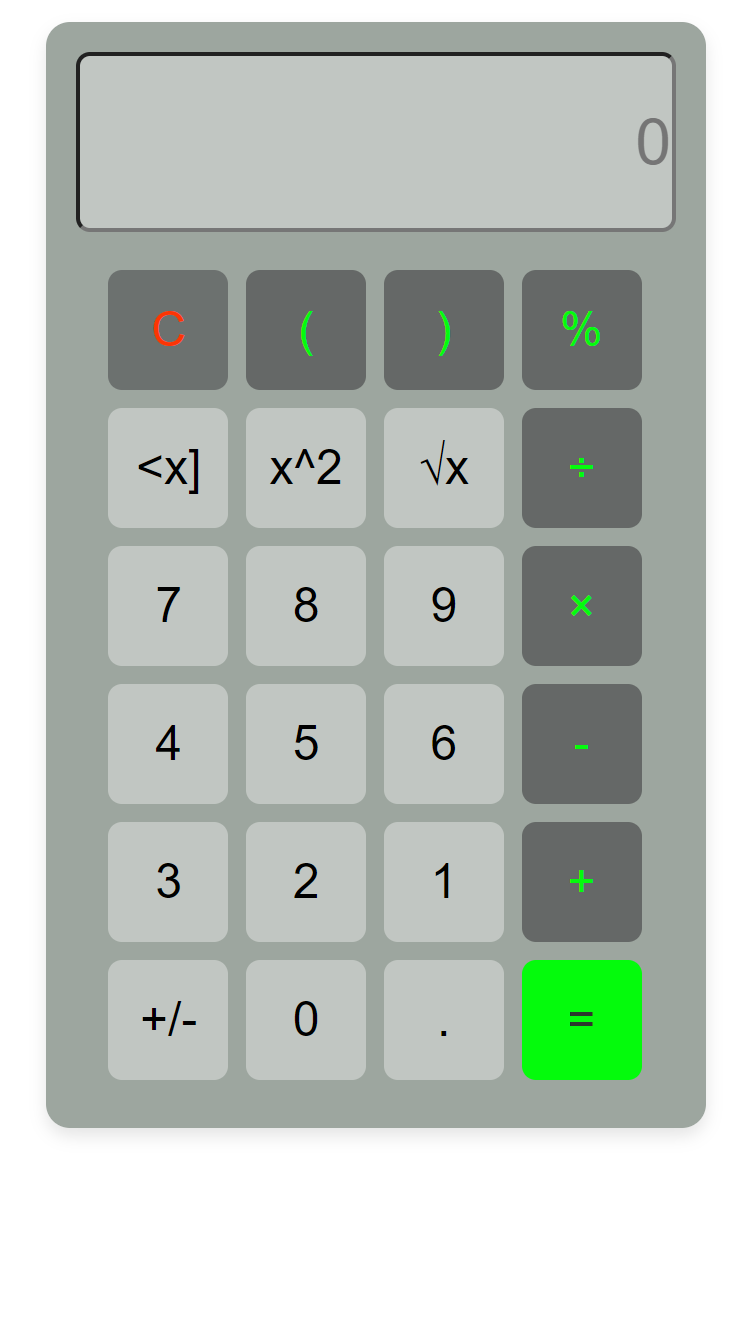
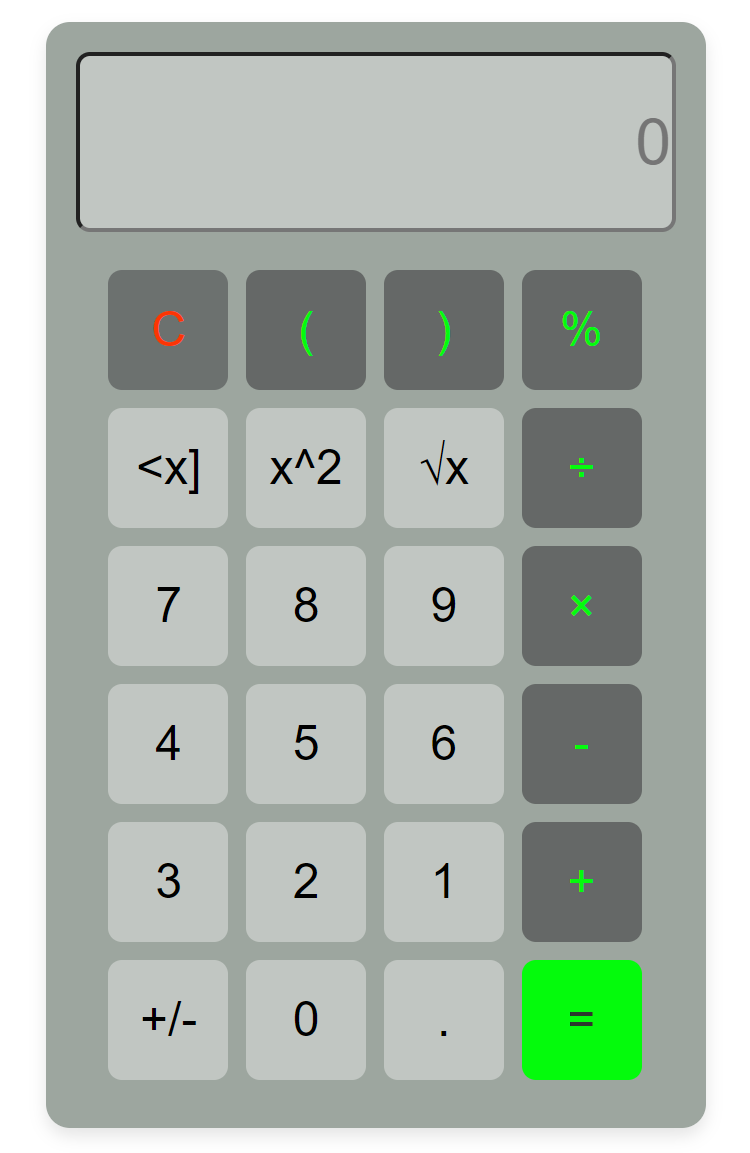
Update html and add css style sheet

diff --git a/index.html b/index.html
@@ -11,9 +11,9 @@
 <body>
     <header>
         <div class="logo">
-            <a href="#" class="home">Sbosh</a>
+            <a href="#" id="home">Sbosh</a>
         </div>
-        <div class="navigation">
+        <div id="navigation">
             <nav aria-label="Portfolio-navigation">
                 <ul class="nav_list">
                     <li><a href="#about">About</a></li>
@@ -25,54 +25,65 @@
         </div>
     </header>
     <main>
-        <section id="#">
-            <div class="welcome_message">
-                <p class="job_title"><h1>Aspiring Fullstack Developer</h1></p>
-                <p class="message">I design intuitive but yet aesthetic desktop and web applications</p>
+        <section id="#" class="welcome">
+            <div id="welcome_message">
+               <h1>Aspiring Fullstack Developer</h1>
+                <p id="message">I design intuitive but yet aesthetic desktop and web applications</p>
             </div>
-            <br>
-            <div id="profile_photo">
-                <img src="Resources\profile.jpg" alt="Profile photo"/>
+            <div class="profile"> 
+                <div id="profile_photo">
+                    <img src="Resources\profile.jpg" alt="Profile photo"/>
+                </div>
             </div>
+        </section>
+        <section id="about" >
             <br>
-            <div class="profileinfo">
-                <p id="profile_name">Sbongile(Sbosh) Mdaki</p>
-                <p><span id="pronouns">She/Her&female;</span>
-                <span id="location">&#128205;RSA</span></p>
+            <p id="profile_name">Sbongile Mdaki (&female;)</p>
+                <p id="location">&#128205;South Africa</p>
+                <br>
+                <button id="CV">Download CV</button>
                 <p><span id="github"><a href="https://github.com/SbongileM">
                     <img src="Resources\github.png" alt="GitHub link"></a></span>
                     <span id="linkedin"><a href="https://www.linkedin.com/in/sbongile-zp-mdaki-9977a1250">
                     <img src="Resources\linkedin.png" alt="Linkedin link"></a></span></p>
-            </div>
-        </section>
-        <br>
-        <section id="about" >
-            <h2>Hello👋. Welcome to my digital haven! I am thrilled to have you here.</h2>
+            <br>
+            <div id="about_message">
+            <h2>Welcome to my digital haven!</h2>
+            <br>
             <p>   
-                I'm on an exhilarating journey as an aspiring full-stack developer, where I 
-                transform the language of 1s and 0s into captivating and user-friendly applications. 
-                For me, it's not just about coding; it's about crafting digital experiences that seamlessly 
+                I'm not just about coding; I transform 1s and 0s into captivating digital experiences that seamlessly 
                 blend aesthetics with functionality. With a passion for both design and engineering, 
-                I strive to create software that not only looks stunning but also exceeds user expectations. 
+                I strive to create software that not only looks the part, but also exceeds user expectations. 
                 My diverse exposure to various technologies, coupled with my problem-solving prowess and 
-                critical thinking, empowers me to build robust and scalable solutions.
-                
-                Beyond the glow of the computer screen, you'll find me pursuing diverse interests that 
-                enrich my perspective. Whether I'm hitting the gym, diving into a good book, or exploring 
-                the depths of human nature through podcasts, I'm always fueled by curiosity and a thirst 
-                for knowledge. And of course, weekends wouldn't be complete without a thrilling game of rugby!
-                
-                So, come along on this journey with me. 
-                Let's explore the endless possibilities of technology and creativity together. 
+                critical thinking, empowers me to build robust and scalable solutions.</p>
+            <br>    
+            <p>Beyond the glow of the computer screen, you'll find me either hitting the gym, diving into a good book, or exploring 
+                the depths of human nature through podcasts. I'm always fueled by curiosity and a thirst 
+                for knowledge, and of course, weekends wouldn't be complete without a thrilling game of rugby!</p>
+            <br>    
+            <p>So come along on this journey with me. Let's explore the endless possibilities of technology 
+                and creativity together. 
             </p>
+        </div>
         </section>
-        <br>
         <section id="experience">
-            <p>I am a self-taught developer with under 1 year of experience and sprinkle
+            <br>
+            <p id="brief">I am a self-taught developer with under one year of experience and a sprinkle
                 of an academic background. My current stack is as follows:
             </p>
             <div class="containers">
-                <div class="container">
+            <div class="container">
+                <h2 class="experience_title">Frameworks</h2>
+                <h3>SFML</h3>
+                <p class="proficiency_level">Experienced</p>
+                <h3>PyQt</h3>
+                <p class="proficiency_level">Intermediate</p>
+                <h3>Django</h3>
+                <p class="proficiency_level">Beginner</p>
+                <h3>Tkinter</h3>
+                <p class="proficiency_level">Beginner</p>
+            </div>
+            <div class="container">
                 <h2 class="experience_title">Languages</h2>
                 <h3>HTML</h3>
                 <p class="proficiency_level">Intermediate</p>
@@ -92,17 +103,6 @@
                 <p class="proficiency_level">Intermediate</p>
             </div>
             <div class="container">
-                <h2 class="experience_title">Frameworks</h2>
-                <h3>SFML</h3>
-                <p class="proficiency_level">Experienced</p>
-                <h3>PyQt</h3>
-                <p class="proficiency_level">Intermediate</p>
-                <h3>Django</h3>
-                <p class="proficiency_level">Beginner</p>
-                <h3>Tkinter</h3>
-                <p class="proficiency_level">Beginner</p>
-            </div>
-            <div class="container">
                 <h2 class="experience_title">Tools</h2>
                 <h3>SQL lite DB browser</h3>
                 <p class="proficiency_level">Beginner</p>
@@ -117,26 +117,26 @@
         <section id="projects">
             <div class="desktop_apps">
                 <div class="project_container">
+                    <br>
                     <h3 class="project_title">Centipede</h3>
                     <p class="stack">C++|SFML|Codeblocks</p>
                     <figure class="demo">
-                        <img src="Resources\centipede.png" alt="Centipede">
-                        <figcaption>Centipede is a 2D clone of the 1981 Centipede arcade game 
-                               from Atari which was developed and designed by Ed Logg and Dona 
-                               Bailey.</figcaption>
+                        <img src="Resources\centipede2.png" alt="Centipede">
+                        <figcaption> A 2D clone of the 1981 Centipede arcade game from Atari 
+                            which was developed and designed by Ed Logg and Dona Bailey.</figcaption>
+                               <a href="https://github.com/SbongileM/Software_Dev2_Centipede_Project.git"><button type="submit">GitHub Repo</button> </a>
                     </figure>
                     <br>
-                    <a href="https://github.com/SbongileM/Software_Dev2_Centipede_Project.git"><button type="submit">GitHub Repo</button> </a>
                 </div>
                 <br>
                 <div class="project_container">
-                    <h3 class="project_title">Rock-Paper_Scissors</h3>
+                    <h3 class="project_title">Rock-Paper-Scissors</h3>
                     <p class="stack">Python|PyQt|VScode</p>
                     <figure class="demo">
                         <img src="Resources\Rock-Paper-Scissors.png" alt="Rock-Paper-Scissors">
-                        <figcaption>This is a 2D emulation of the classic two player game  </figcaption>
+                        <figcaption>A colourful 2D emulation of an in-person two player game for the classic rock-paper-scissors</figcaption>
+                        <a href="https://github.com/SbongileM/CODSOFT.git"><button type="submit">GitHub Repo</button> </a>
                     </figure>
-                    <a href="https://github.com/SbongileM/CODSOFT.git"><button type="submit">GitHub Repo</button> </a>
                 </div>
                 <br>
                 <div class="project_container">
@@ -145,20 +145,21 @@
                     <figure class="demo">
                         <img src="Resources\Password_gen.png" alt="Password Generator>">
                         <figcaption>A simple and intuitive app to help you keep your accounts
-                            secure. The application can generate passwords between 8 to 50 
+                            secure. The application can generate passwords that are between 8 to 50 
                             characters long. </figcaption>
-                    </figure>
-                    <a href="https://github.com/SbongileM/CODSOFT.git"><button type="submit">GitHub Repo</button> </a>
+                            <a href="https://github.com/SbongileM/CODSOFT.git"><button type="submit">GitHub Repo</button> </a>
+                        </figure>
                 </div>
                 <br>
                 <div class="project_container">
                     <h3 class="project_title">To-Do list Manager</h3>
-                    <p class="stack">Python|PyQt|VScode|SQL</p>
+                    <p class="stack">Python|SQL|PyQt|VScode</p>
                     <figure class="demo">
-                        <img src="Resources\to_do.png" alt="To-Do app">
-                        <figcaption> </figcaption>
+                        <img src="Resources\to_do3.png" alt="To-Do app">
+                        <figcaption> A super tool for task masters.This to-do list manager allows users to
+                            add new list categories, new tasks, task notes and seperate tasks into different categories. </figcaption>
+                        <a href="https://github.com/SbongileM/CODSOFT.git"><button type="submit">GitHub Repo</button> </a>
                     </figure>
-                    <a href="https://github.com/SbongileM/CODSOFT.git"><button type="submit">GitHub Repo</button> </a>
                 </div>
             </div>
             <br>
@@ -167,28 +168,29 @@
                     <h3 class="project_title">Standard Numerical Calculator</h3>
                     <p class="stack">HTML|CSS|Javascript|VScode</p>
                     <figure class="demo">
-                        <img src="Resources\calculator.png" alt="Calculator">
+                        <img src="Resources\calculator2.png" alt="Calculator">
                         <figcaption> </figcaption>
+                        <a href="https://github.com/SbongileM/CODSOFT-Calculator.git"><button type="submit">GitHub Repo</button> </a>
+                        <a href="https://sbongilem.github.io/CODSOFT-Calculator/"><button type="submit">Website</button> </a>
                     </figure>
-                    <a href="https://github.com/SbongileM/CODSOFT-Calculator.git"><button type="submit">GitHub Repo</button> </a>
-                    <a href="https://sbongilem.github.io/CODSOFT-Calculator/"><button type="submit">Website</button> </a>
                 </div>
                 <br>
                 <div class="project_container">
-                    <h3 class="project_title">Osizweni Fitness Landing Page</h3>
-                    <p class="stack">CSS|HTML|VScode</p>
+                    <h3 class="project_title">Osizweni Fitness and Aerobics Center Landing Page</h3>
+                    <p class="stack">HTML|CSS|VScode</p>
                     <figure class="demo">
                         <img src="Resources\landing.png" alt="landing page">
                         <figcaption> </figcaption>
+                        <a href="https://github.com/SbongileM/CODSOFT-LandingWebpage.git"><button type="submit">GitHub Repo</button> </a>
+                        <a href="https://sbongilem.github.io/CODSOFT-LandingWebpage/"><button type="submit">Website</button> </a>
                     </figure>
-                    <a href="https://github.com/SbongileM/CODSOFT-LandingWebpage.git"><button type="submit">GitHub Repo</button> </a>
-                    <a href="https://sbongilem.github.io/CODSOFT-LandingWebpage/"><button type="submit">Website</button> </a>
                 </div>
             </div>
         </section>
         <br>
         <section id="connect">
             <div class="Form">
+                <br>
                 <p>Got a question, a proposal or need more info?</p>
                 <form>
                   <p><legend>Get in touch:</legend></p>
@@ -213,7 +215,7 @@
                     />
                   </p>
                   <p>
-                    <textarea name="message" cols="30" rows="10" placeholder="Type your Message here"></textarea>
+                    <textarea name="message" cols="30" rows="9" placeholder="Type your Message here"></textarea>
                   </p>
                 </form>
                 <br />
@@ -221,19 +223,16 @@
                 Connect
             </button>
             </div>
-            <br>
-            <div class="direct_contact">
-                <h3>Contact me directly</h3>
-                <ul class="socialmedia">
-                    <li class="tel"><a href="tel:0794750456">(+27)79-475-0456</a></li>
-                    <li class="socials">
-                      <a href="mailto:Sbongilep4@gmail.com" target="blank">
-                       Sbongilep4@gmail.com </a></li>
-                  </ul>
-            </div>
             </section>
     </main>
     <footer>
+        <br>
+        <div class="direct_contact">
+            <h3>Contact me directly</h3>
+               <a href="tel:0794750456"> <p class="tel">(+27)79-475-0456</p></a>
+                  <a href="mailto:Sbongilep4@gmail.com" target="blank">
+                    <p class="socials">Sbongilep4@gmail.com </p></a>
+        </div>
         <div class="footer_navigation">
             <nav aria-label="Portfolio-navigation">
                 <ul class="nav_list">
@@ -244,9 +243,10 @@
                 </ul>
             </nav>
         </div>
+        <a href="#" ><p id="top">Back to Top</p></a>
         <br />
       <p class="copyright">
-        Copyright &copy; Sbongile Mdaki. All rights
+        Copyright &copy; 2024 Sbongile Mdaki. All rights
         reserved
       </p>
     </footer>
